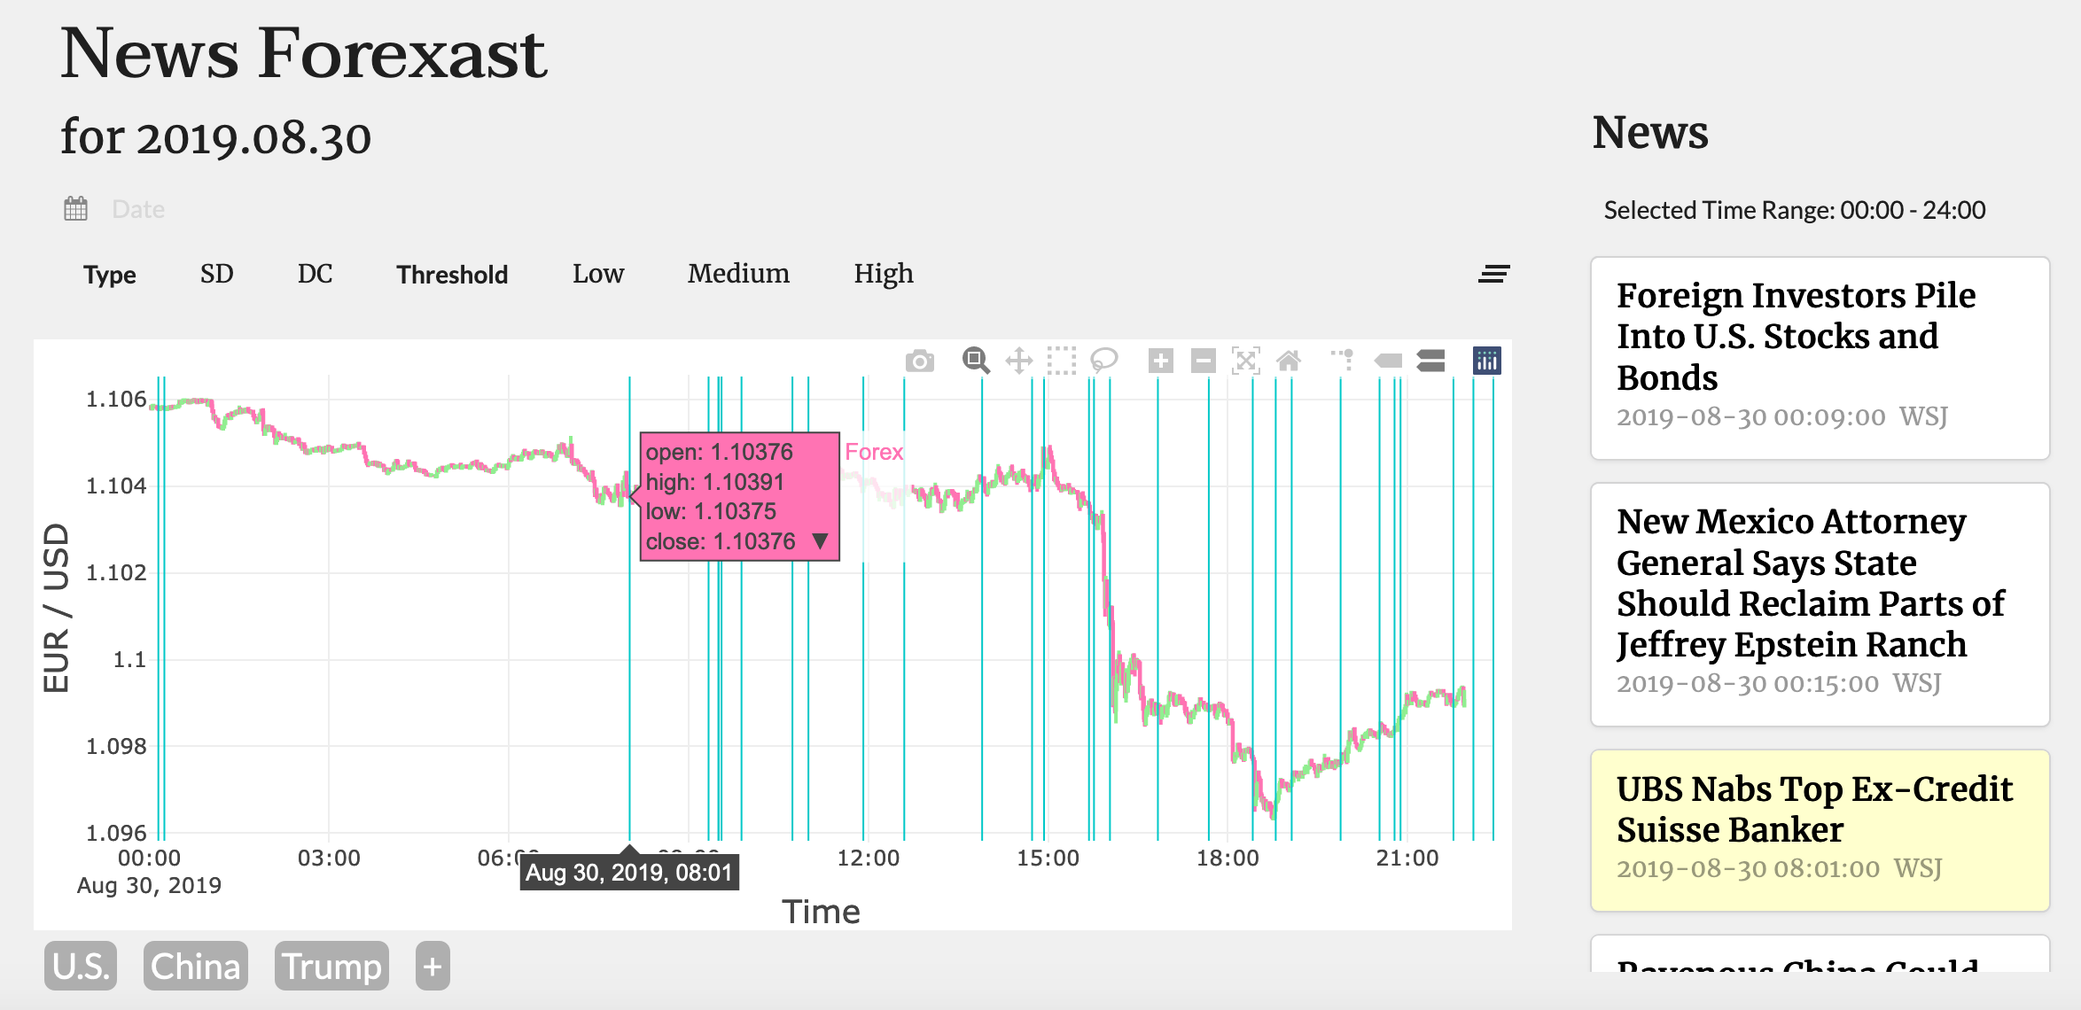
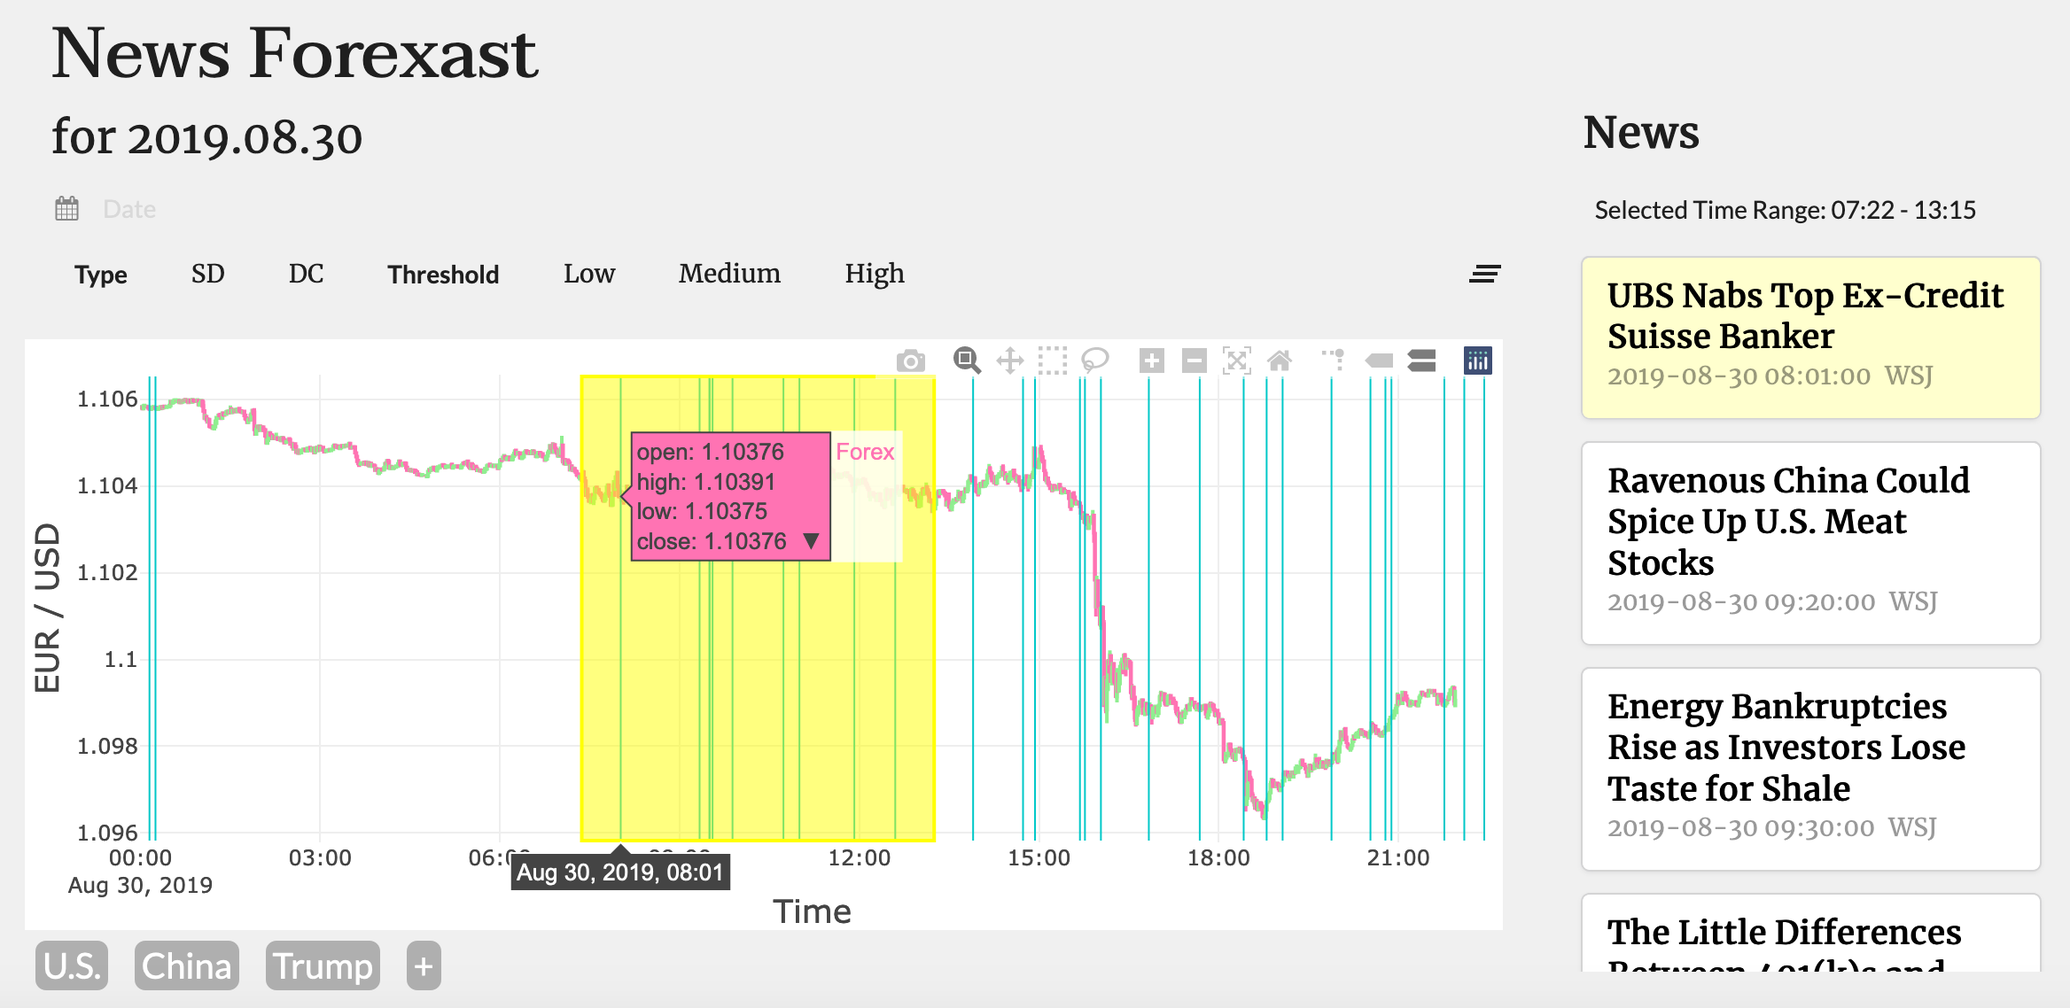
Revise abstract, intro, related work -- cjwang.

diff --git a/paper.tex b/paper.tex
@@ -85,7 +85,7 @@
 %%
 %% The "title" command has an optional parameter,
 %% allowing the author to define a "short title" to be used in page headers.
-\title{Forexast: A Interactive News Digestion for Forex Investors}
+\title{Forexast: An Interactive News Digestion for Forex Investors}
 
 %%
 %% The "author" command and its associated commands are used to define
@@ -93,39 +93,27 @@
 %% Of note is the shared affiliation of the first two authors, and the
 %% "authornote" and "authornotemark" commands
 %% used to denote shared contribution to the research.
-\author{Ben Trovato}
-\authornote{Both authors contributed equally to this research.}
-\email{trovato@corporation.com}
-\orcid{1234-5678-9012}
-\author{G.K.M. Tobin}
-\authornotemark[1]
-\email{webmaster@marysville-ohio.com}
+
+\author{Chih-Hen Lee}
+\email{ch.lee@citi.sinica.edu.tw}
 \affiliation{%
-  \institution{Institute for Clarity in Documentation}
-  \streetaddress{P.O. Box 1212}
-  \city{Dublin}
-  \state{Ohio}
-  \postcode{43017-6221}
-}
+  \institution{Research Center for Information Technology Innovation, Academia Sinica}
+  \city{Taipei}
+  \country{Taiwan}}
 
-
-
-\author{Huifen Chan}
+\author{Yi-Shyuan Chiang}
+\email{yschiang@gapp.nthu.edu.tw}
 \affiliation{%
-  \institution{Tsinghua University}
-  \streetaddress{30 Shuangqing Rd}
-  \city{Haidian Qu}
-  \state{Beijing Shi}
-  \country{China}}
+  \institution{Research Center for Information Technology Innovation, Academia Sinica}
+  \city{Taipei}
+  \country{Taiwan}}
 
-\author{Charles Palmer}
+\author{Chuan-Ju Wang}
+\email{cjwang@citi.sinica.edu.tw}
 \affiliation{%
-  \institution{Palmer Research Laboratories}
-  \streetaddress{8600 Datapoint Drive}
-  \city{San Antonio}
-  \state{Texas}
-  \postcode{78229}}
-\email{cpalmer@prl.com}
+  \institution{Research Center for Information Technology Innovation, Academia Sinica}
+  \city{Taipei}
+  \country{Taiwan}}
 
 
 %%
@@ -140,7 +128,14 @@
 %% The abstract is a short summary of the work to be presented in the
 %% article.
 \begin{abstract}
-Foreign exchange (forex) markets reflect real-world events, local or global.  Thus,  financial news is oftentimes referred to when making predicting the trends of forex. We propose News Forexast,  an interactive web-based system that displays a forex plot alongside with related financial news. Users can locate specific periods when the trading trends in forex markets dramatically change with the visualization of Standard Deviation (SD) events and Directional Change (DC) events. Finally, Forex comes with a keyword filtering function that allows users to filter news with keywords. We aim to make the decision-making process smoother for not only professional financial analysts but also all investors with this accessible and intuitive website.
+Foreign exchange (Forex) markets reflect real-world events, locally or globally.
+Thus,  financial news is oftentimes leveraged for predicting the trends of forex.
+In this demonstration, we propose Forexast, an interactive web-based system that displays a forex plot alongside with related financial news.
+To our best knowledge, this is the first system that successfully aligns the presentation of two types of time-series data: the forex data and the textual news data in a unified and time-aware manner. 
+Specifically, we first present two event detection methods based on the standard deviation (SD) and directional change (DC) of the forex data and use them to locate specific periods when the trends in forex markets dramatically change.
+Moreover, Forexast comes with a keyword filtering function that allows users to filter news with self-defined keywords.
+The system can be of great help in revealing valuable insights and relations between two types of time-series data and thus be valuable for decision making for not only professional financial analysts or traders but also common investors.
+The system is now online available at \url{http: //clip.csie.org/10K/}.
 \end{abstract}
 
 %%
@@ -182,25 +177,52 @@ Foreign exchange (forex) markets reflect real-world events, local or global.  Th
 \maketitle
 
 \section{Introduction}
-Foreign exchange (Forex) market has been one of the most popular market for decades, with an estimated \$1\  trillion traded every day\cite{YAO200079}. Spot trading, options future and exchange-traded funds(ETFs) are three of many ways of investing strategies adopted in forex markets\cite{TradeForex}. The strategies might vary but they are driven by an intuitive rule of thumb, which is to buy low and sell high\cite{KOOLEN2014144}\cite{Zervos11}. Therefore, whether investors can accurately forecast the prices or trends is extremely crucial. Forex markets are influenced by numerous factors, such as producer price index(PPI), interest rates and politics, in order to consider as many factors as possible to have more comprehensive approaches for forex investment, investors rely on news for them to stay informed. Besides the fact that news usually reflect the real world events, the similar nature of news and forex also makes these two co-dependent. For example, if the Federal Reserve System (Fed) cuts the interest rate, it is more likely that the value of USD would drop, the devaluation would then feed into forex market increasing the demand, thus making another piece of news. 
+Foreign exchange (Forex) market has been one of the most popular financial markets for decades, with an estimated \$1\ trillion traded every day~\cite{YAO200079}.
+Spot trading, currency options, currency futures, and currency exchange-traded funds (ETFs) are four major ways to trade Forex~\cite{TradeForex}.
+The strategies might vary but they are driven by an intuitive rule of thumb, which is to buy low and sell high~\cite{KOOLEN2014144,Zervos11}.
+Therefore, whether investors can accurately forecast the prices or trends is extremely crucial. 
 
-\section{Related Work and Systems}
-The dynamics between news and forex markets have been explored from several different aspects. Evans and Lyons proved that news can have significant effects on currency for days\cite{EVANS2005197}, and more specifically macro news can affect currency prices directly and indirectly via order flow\cite{EVANS200826}. There is also more evidence showcasing news and forex trend are correlated, Bauwens, Omrane and Giot show that volatility increases right before the announcement of scheduled news and unscheduled-but-periodic news\cite{BAUWENS20051108}, while Chatrath et al. suggests that prices respond quickly within 5-min of the news release\cite{CHATRATH201442}. With how forex markets and news interact in mind, it is only reasonable to suggest traders should begin their days by reading news commentary to determine the market sentiment and the daily direction for trading\cite{samuels2015trader}.
+Forex markets are influenced by numerous factors, such as producer price index (PPI), interest rates, and politics.
+In order to consider as many factors as possible to have more comprehensive views for Forex investment, most investors rely on news for them to stay informed.
+Besides the fact that news usually reflect the real-world events, the similar nature of news and forex also makes these two co-dependent.
+For example, if the Federal Reserve System (Fed) cuts the interest rate, it is more likely that the value of USD would drop; also, such a devaluation would later make another piece of news~\cite{"CNBC"}. 
 
-There are many trading websites which provide useful information for forex investors, and each of them has its own features\cite{ForexWebsites}. For instance, BabyPips\cite{BabyPips} is a friendly website for junior traders, which provides not only forex plots and data but also courses, tutorials and forums for beginners. Bloomberg\cite{Bloomberg} is a well-known news agency. Therefore, besides stocks and currencies data, it also has various categories of news. TradingView\cite{TradingView} provides numerous functions in a page, such as watchlist, alerts, headlines and real-time chats, where users can customize the settings. However, some of their news and forex plot are not put in the same interface, or the times of news and forex are not highlighted. This could neglect the relation between news and forex data. Therefore, our work aims to highlight the connection between the timing of news and forex trends. New Forexast is designed to display the news’ release time as vertical lines on the forex plot to emphasize the order of breaking news and exchange rates. In addition, when users hover on the line, the background colour of the corresponding news would change. 
-We also choose to display standard deviation events (SD events) and directional change events (DC events)\cite{7850020} to help users locate the changes within exchange rates, and pay more attention to the changes of trend or where the prices have larger volatility. The features of News Forexast would be introduced more detailed in section 4.
+Considering the critical roles of news for Forex investment, in this demonstration, we propose Forexast, an interactive web-based system that displays a forex plot alongside with related financial news.
+The proposed system aims to highlight the connection between two types of time-series data: the Forex and the news data by aligning the timing of them.
+Forexast is designed to display the news' release time as vertical lines on the forex plot to emphasize the order of breaking news and exchange rates. In addition, when users hover on a vertical line, the background colour of the corresponding news would change. 
+Moreover, we propose to use two event detection methods based on the standard deviation (SD) and directional change (DC)~\cite{7850020} of the Forex data to locate specific periods when the trends in Forex markets dramatically change.
+Via this design, user can pay more attention to the changes of trend or where the prices have larger volatility.
+Finally, Forexast comes with a keyword filtering function that allows users to filter news with self-defined keywords.
+To our best knowledge, this is the first system that effectively visualizes two types of time-series data: the forex data and the textual news data in a unified and time-aware manner. 
+The proposed Forexast can be of great help in revealing valuable insights and relations between two types of time-series data and thus be valuable for decision making for not only professional financial analysts or 
+
+The remainder of this paper is organized as follows.
+In Section~\ref{sec:related}, we review previous studies related to Forex and news and major websites for Forex traders.
+Section~\ref{sec:system} describes the proposed system with details related to data collection, event detection algorithms, interfaces and key features.
+After that, we provide a case study in section~\ref{sec:case} and Section~\ref{sec:conclude} provides the conclusion and future work.
+
+\section{Related Work and Systems}\label{sec:related}
+The dynamics between news and Forex markets have been explored from several different aspects.
+Evans and Lyons (2005) prove that news can have significant effects on currency for days~\cite{EVANS2005197}, and macro news can affect currency prices directly and indirectly via order flow~\cite{EVANS200826}.
+There is also more evidence showcasing news and Forex trend are correlated.
+For instance, Bauwens et al.  (2005) show that volatility increases right before the announcement of scheduled news and unscheduled-but-periodic news~\cite{BAUWENS20051108}, while Chatrath et al. (2014) suggest that prices respond quickly within 5-min after the news release~\cite{CHATRATH201442}.
+With how Forex markets and news interact in mind, it is reasonable for traders to begin their days by reading news commentary to determine the market sentiment and the direction for trading~\cite{samuels2015trader}.
+
+Apart from the literature discussing the relation between Forex and news, there are many trading websites which provide useful information for Forex investors, each of which has its own features and limitations~\cite{ForexWebsites}.
+For instance, BabyPips\footnote{\url{https://www.babypips.com}} is a friendly website for junior traders, providing not only Forex plots but also courses, tutorials and forums for beginners. Bloomberg\footnote{\url{https://www.bloomberg.com}} is a well-known news agency; thus, in addition to currency data and plots, it also provides various categories of news for users to focus on their interest.
+TradingView\footnote{\url{https://www.tradingview.com}} provides numerous functions in a page, such as watchlist, alerts, headlines and real-time chats, where users can customize the settings. 
+However, most of these websites do not put the news and Forex plot at the same page or do not explicitly align the news releasing time with the Forex prices.
+Most of them neglect the time-dependent relation between news and Forex data and thus do not effectively visualizes two types of time-series data: in a unified and time-aware manner. 
 
 
-
-
-\section{System Structure}
+\section{System Description}\label{sec:system}
 
 \subsection{Data Collection}
-The forex data is from philipperemy/FX-1-Minute-Data\cite{FX-1-Minute-Data}, a repository of github. We choose the EUR/USD index, and use the DateTime Stamp, OPEN Bid Quote, HIGH Bid Quote, LOW Bid Quote and CLOSE Bid Quote columns as our forex data. The time span is from 2019/08/04 to 2019/09/13 except Saturdays, and the granularity of data is minute. 
+The forex data is from philipperemy/FX-1-Minute-Data\footnote{\url{https://github.com/philipperemy/FX-1-Minute-Data}}, a repository of github. We choose the EUR/USD index, and use the DateTime Stamp, OPEN Bid Quote, HIGH Bid Quote, LOW Bid Quote and CLOSE Bid Quote columns as our forex data. The time span is from 2019/08/04 to 2019/09/13 except Saturdays, and the granularity of data is minute. 
 
-The news data is crawled by us, containing titles, sources, release times and urls. There are 1116 news in total and the sources are all from The Wall Street Journal\cite{WSJ}.
+The news data is crawled by us, containing titles, sources, release times and urls. There are 1116 news in total and the sources are all from The Wall Street Journal\footnote{\url{https://www.wsj.com}}.
 
-\subsection{Algorithms for DC and SC events}
+\subsection{Algorithms for SD and DC events}
 To mark some special time points on the plot, we use two algorithms, standard deviation events (SD events) and directional change events (DC events)\cite{7850020}. SD events show the times where the prices dramatically change, and DC events show the times where the trends change. To get these events, we need to calculate the difference rate list $D$ of the price list first. 
 Let $P= [p_1, p_2, ..., p_n]$, where $p_t$ stands for the CLOSE Bid Quote at minute $t$ and n equals to total numbers of daily forex data. Then we can get a difference rate list $D= [d_1, d_2, ..., d_m]$, where $d_t = \frac{p_{t+w}-p_t}{p_t}$.  $w\in\mathbb Z^+$ means the range in minutes, which can be freely customized (we use 30 in this demonstration).
 $\sigma$ is the standard deviation of $D$, which can be interpreted as the volatility of prices. We use $\sigma$ as our low threshold to attain a subset of D, whose elements are all bigger than $\sigma$. Then the corresponding set of p will be marked as SD events. We also consider $2\sigma$ and $3\sigma$ as medium and high thresholds in our demonstration. Higher threshold will find less events.
@@ -210,25 +232,25 @@ Under the DC framework, the market is summarized into alternating uptrends and d
 
 
 
-\section{Interfaces and features}
+\subsection{Interfaces and features}
 The interface of News Forexast can be divided into two main parts, a forex chart and the news section. Users can customize the selection criteria either by directly manipulating the forex chart or applying the keyword filters.
 
 \begin{figure}[h]
   \centering
   \includegraphics[width=\linewidth]{hover.png}
-  \caption{Example of news being highlighted when the cursor hovers over the corresponding timeline on the chart.}
+  \caption{Example of news being highlighted when the cursor hovers over the corresponding timeline on the chart. The yellow interval is the news selection range which can be decided by users.}
   \Description{}
 \end{figure}
 
-\subsection{Interactive Forex Chart}
-The forex chart is a standard candlestick chart, powered by Plotly graphing libraries\cite{Plotly}, that displays price movements, users can specify the date they are interested in with the calendar icon above the chart. Supported by Plotly graphing library, users can explore the chart freely by zooming in or dragging out the time frame they are interested. The corresponding news would be highlighted if users hover over the corresponding blue line on the chart. (Fig. 2)
+\subsubsection{Interactive Forex Chart}
+The forex chart is a standard candlestick chart, powered by Plotly graphing libraries\footnote{\url{https://https://plotly.com/graphing-libraries/}}, that displays price movements, users can specify the date they are interested in with the calendar icon above the chart. Supported by Plotly graphing library, users can explore the chart freely by zooming in or dragging out the time frame they are interested. The corresponding news would be highlighted if users hover over the corresponding blue line on the chart. (Fig. 2)
 
 
 Below the calendar is where users can specify event types and the corresponding thresholds. After selecting an event type and their thresholds, eg. SD and low threshold,  the algorithmic output would be shown on the forex chart. Once done with a specific setting, users can clear the setting with the “clear all” button the top-right. The news section without any specification would show all daily news with titles, released time and sources. Users could link to the original posts and websites by clicking on the news cards. 
 
 
 
-\subsection{Forex Event Identifier}
+\subsubsection{Forex Event Identifier}
 With the help of SD and DC events as indicators, users can now spot specific time ranges they are interested in. (Fig 3, 4) Users can then select such time range on the plot and narrow down the news shown on the right to the time range they selected. For example, users can specify 2019/08/30 with the SD with the low threshold, users can tell that there’s a dramatic change during 14:30-16:30 and can proceed to select the time range on the plot. In return, the news section would display related news such as "Would Warren Buffett Buy Greenland?" and "Risky Seller Financing Flourishes Where Homes Are Cheapest". 
 
 \begin{figure}[h]
@@ -245,7 +267,7 @@ With the help of SD and DC events as indicators, users can now spot specific tim
   \Description{}
 \end{figure}
 
-\subsection{Customizable Keyword Filter
+\subsubsection{Customizable Keyword Filter
 }
 If interested in more specific news, users can use the button under the plot to filter out news with selected keywords. We have placed several keywords such as U.S. and Trump, users can also customize their own tags by clicking the “+” button. For example, if the time frame is specified and the tag "U.S" is applied, only "Strength in U.S. Consumer Spending Drives Economy". would be shown on the news section.(Fig 5)
 
@@ -257,9 +279,21 @@ If interested in more specific news, users can use the button under the plot to 
   \Description{}
 \end{figure}
 
+\section{Case Study}\label{sec:case}
 
-\section{Conclusion and Future work}
-We have proposed an interactive website that juxtaposes a forex chart with news within the time frame users selecting. By having the chart and related news side by side together, users, financial professional or amateur investors, can all understand the trend quicker and easier. We are working toward to provide real-time news update in the future, as fixed data is limited. In addition, if we are able to collect more user's log data and news in the future, along with machine learning and natural language processing (NLP) techniques, we can achieve more customized news feed such as personal news recommendation.  
+\begin{figure}[h]
+  \centering
+  \includegraphics[width=\linewidth]{case.png}
+  \caption{An example of case study.}
+  \Description{}
+\end{figure}
+
+In this section, we provide an example that showcases the strong relation among events, news and forex (Fig 6). On 2019/08/06, we can see the news "Welcome to Turnaround Tuesday" released at 08:43, the time when an uptrend is about to end (displaying DC event with high threshold shows that this uptrend starts at 05:07). The news mentioned "U.S. stock futures were in a decidedly better mood as Tuesday began than on Monday." This indicates that U.S. stock is likely to rebound later, and thus causes appreciation on USD. Then, the EUR/USD starts a downtrend from 08:49 to 14:41. Note that if EUR/USD has lower rate, it could be explained that USD has relatively high value.
+
+
+
+\section{Conclusion and Future work}\label{sec:conclude}
+We have proposed an interactive website that juxtaposes a forex chart with news from the time frame users selecting. By having the chart and related news side by side together, users, financial professional or amateur investors, can all understand the trend quicker and easier. We are working toward to provide real-time news update in the future, as forex data is limited. In addition, if we are able to collect more user's log data and news in the future, along with machine learning and natural language processing (NLP) techniques, we can achieve more customized news feed such as personal news recommendation.  
 
 \section{Acknowledgments}
 
